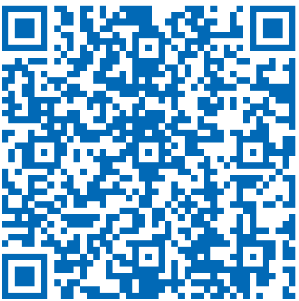
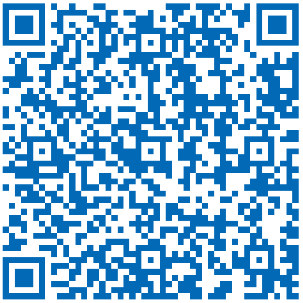
update qrcode apk

diff --git a/README.md b/README.md
@@ -7,7 +7,7 @@
 1. 车牌识别除了支持普通的蓝色、黄色、警用等车牌外，同时也支持新能源车牌。
 1. 驾驶证识别率大幅提升，证件识别实现自动对焦锁定，用户体验大幅提升。
 
-- ### **[体验下载](https://gitee.com/jarlen/card-ocrad/raw/main/CardOCR_enc.apk)**
+- ### **[体验下载](https://gitee.com/jarlen/card-ocrad/raw/main/qrcode_apk.jpg)**
 
 ![image](https://gitee.com/jarlen/card-ocrad/raw/main/qrcode_apk.jpg)
 
